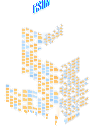
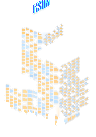
Improve pier water grading and graphics diagnostics

diff --git a/native/core/render/src/water_reflections.rs b/native/core/render/src/water_reflections.rs
@@ -308,7 +308,7 @@ impl Builder {
                     && !draw.shadow
                     && !draw.moving
                     && crate::nature::original(draw.sprite) == self.config.base() + i32::from(b)
-                    && (bridge(b) || b == crate::ids::building_tile_ids::MARINA)
+                    && (bridge(b) || matches!(b, crate::ids::building_tile_ids::MARINA | crate::ids::building_tile_ids::PIER))
                     && self.city.wet(i)
             });
             let clipped = draw.rect.clip(bounds);
@@ -1082,6 +1082,38 @@ mod tests {
             .water_pixels(bounds, &[0; 256], &HashMap::new(), &HashMap::from([(variant as u64 * 2, mask)]))
             .unwrap();
         assert_eq!(before.surface, after.surface);
+    }
+
+    #[test]
+    fn pier_water_receiver_keeps_unmarked_deck_dry() {
+        for view in 0..3 {
+            let mut b = fixture(view);
+            let c = b.config;
+            let pier = crate::ids::building_tile_ids::PIER;
+            let key = (c.base() + i32::from(pier)) as u64 * 2;
+            let size = 16 / c.divisor();
+            let sprite = Sprite {
+                w: size,
+                h: size,
+                rgba: [12, 0, 0, 255].repeat((size * size) as usize),
+                la: vec![],
+            };
+            b.sprites.images.insert(key, sprite.clone());
+            b.city.buildings[0] = pier;
+            b.city.flags[0] = 4;
+            b.city.terrain[0] = 0x10;
+            let mut mask = sprite;
+            for (i, pixel) in mask.rgba.chunks_exact_mut(4).enumerate() {
+                pixel.copy_from_slice(if i % 2 == 0 { &[0, 0, 153, 255] } else { &[0, 0, 0, 0] });
+            }
+            let bounds = Rect::new(c.side(), c.top() - 32, 160, 160);
+            let result = b
+                .water_pixels(bounds, &[0; 256], &HashMap::new(), &HashMap::from([(key, mask)]))
+                .unwrap();
+            let wet = result.surface.chunks_exact(4).filter(|pixel| pixel[3] != 0).count();
+            assert!(wet > 0, "pier water mask ignored at view {view}");
+            assert!(wet < (size * size) as usize, "deck classified as water at view {view}");
+        }
     }
 
     #[test]
